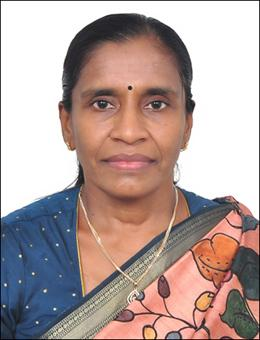
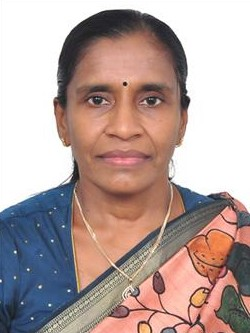
updated Gallery and images

diff --git a/alldoctors/index.html b/alldoctors/index.html
@@ -572,7 +572,7 @@
 
                 <div class="md:w-[22%] md:h-[600px] w-full bg-white  rounded-lg  bg-[#358E83] doctor-cart">
                     <div class="img-box w-[100%] bg-[#358E83] doctor-box">
-                        <img  style="height: 300px;" src="../img/dr-salma.jpg" alt="" class="w-[100%] rounded-lg">
+                        <img  style="height: 300px;" src="../img/dr-salma.jpg" alt="" class="w-[100%] rounded-lg object-contain">
                     </div>
                     <div class=" text-dotor text-center py-4 bg-[#358E83] text-white">
                         <div class="h-[220px]">
@@ -712,7 +712,7 @@
                 <div class="md:w-[22%] md:h-[600px] w-full bg-white  rounded-lg  bg-[#358E83] doctor-cart">
                     <div class="img-box w-[100%] h-[270px] bg-[#358E83] doctor-box">
                         <img src="../img/shanti.jpeg" alt=""
-                            class="w-[100%] h-[100%] bg-white rounded-lg">
+                            class="w-[100%] h-[100%] bg-white rounded-lg object-contain">
                     </div>
                     <div class=" text-dotor text-center py-4 bg-[#358E83] text-white">
                         <div class="h-[220px]">

diff --git a/Gallery.html b/Gallery.html
@@ -668,8 +668,8 @@
         content="Powered by Slider Revolution 6.7.9 - responsive, Mobile-Friendly Slider Plugin for WordPress with comfortable drag and drop interface." />
      <script src="https://cdn.tailwindcss.com"></script>
     <link rel="stylesheet" href="https://maxcdn.bootstrapcdn.com/font-awesome/4.5.0/css/font-awesome.min.css">
-    <link rel="stylesheet" href="../css/style.css">
-    <link rel="stylesheet" href="../css/style2.css">
+    <link rel="stylesheet" href="./css/style.css">
+    <link rel="stylesheet" href="./css/style2.css">
     <meta name="viewport" content="width=device-width, initial-scale=1.0, viewport-fit=cover" />
     <!-- Fancybox CSS -->
     <link rel="stylesheet" href="https://cdnjs.cloudflare.com/ajax/libs/fancybox/3.5.7/jquery.fancybox.min.css" />

diff --git a/Dr-Shanthi/index.html b/Dr-Shanthi/index.html
@@ -1018,7 +1018,7 @@
                             data-id="470b03d" data-element_type="widget" data-widget_type="image.default">
                             <div class="elementor-widget-container">
                                 <img decoding="async" width="800" height="789" src="../img/shanti.jpeg"
-                                    class="attachment-full size-full wp-image-9662" alt=""
+                                    class="attachment-full size-full wp-image-9662 object-contain" alt=""
                                     srcset=""
                                     sizes="100vw" />
                             </div>
